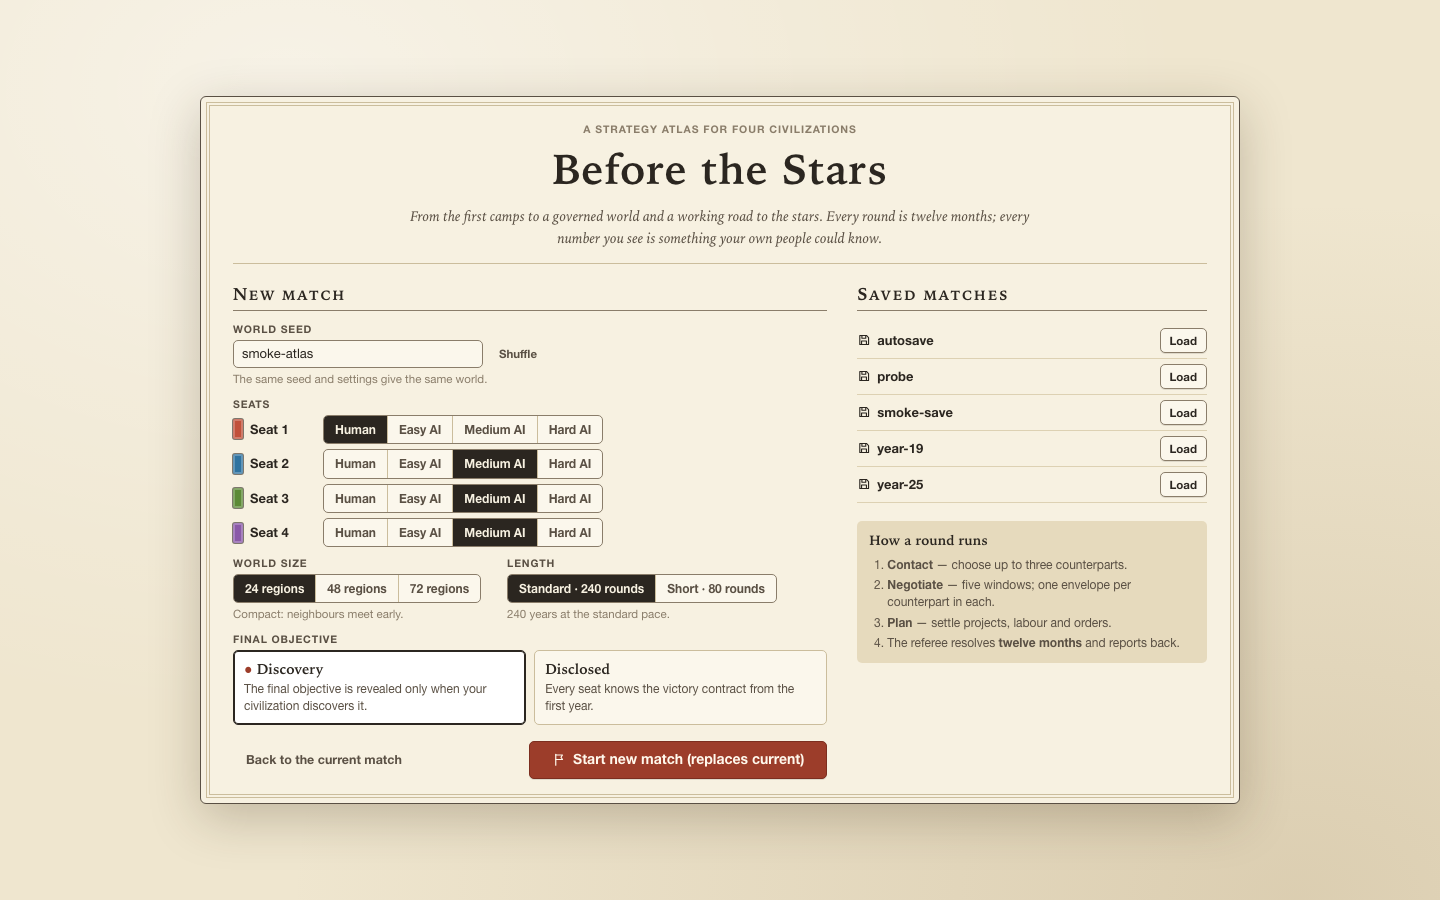
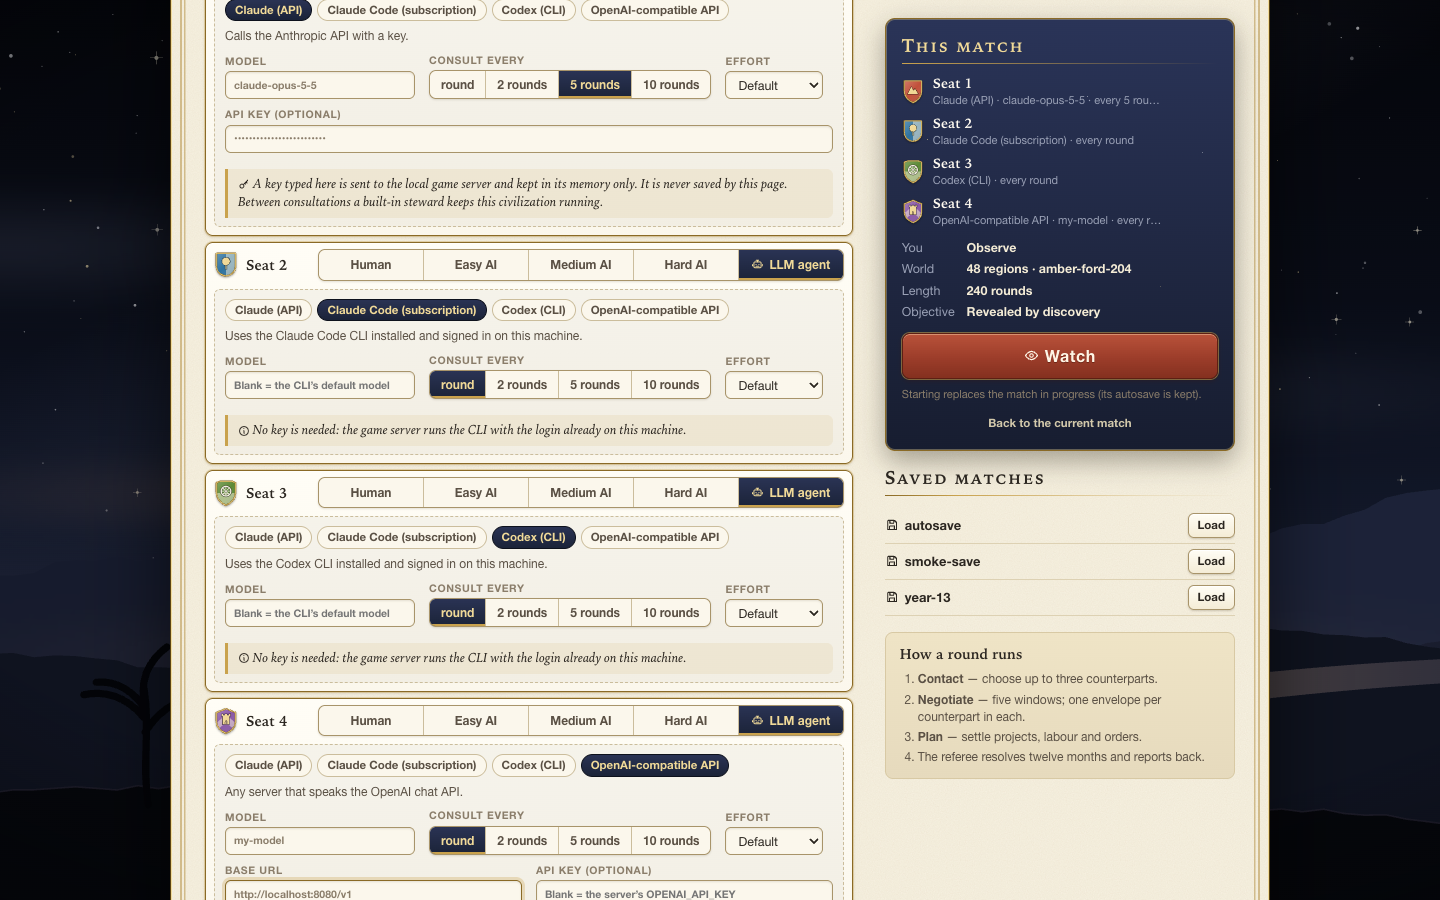
Version 0.3.0: document the desktop game and refresh the screenshots
README and implementation status now describe the 3D map, trees, ledger,
tutorial, observer mode, model seats, languages and the desktop application,
and list what has not been verified: real model seats, the 3D map on a real
graphics card, the Windows build, the release workflow and a native review
of the Chinese text.

diff --git a/README.md b/README.md
@@ -8,14 +8,19 @@ governance of the whole inhabited world **and** a jump-capable service the winne
 build, crew, supply and replace.
 
 This repository contains the v1.0 design documentation (`docs/`) and a playable
-implementation of it: an authoritative Rust rules engine with native non-LLM opponents,
-a local server, and a TypeScript browser client.
+implementation of it: an authoritative Rust rules engine with native non-LLM opponents
+and optional language-model seats, and a desktop application for macOS and Windows
+(the same client also runs in a browser).
 
-![The atlas and round briefing late in a match](docs/screenshots/atlas-and-briefing.png)
+![The world map and round briefing late in a match](docs/screenshots/world.png)
 
-| Chronicle | Known graph | Setup |
+| Title screen | Technology tree | Economy ledger |
 | --- | --- | --- |
-| ![Historic Moments timeline](docs/screenshots/chronicle.png) | ![Known technology graph](docs/screenshots/knowledge-graph.png) | ![New match](docs/screenshots/setup.png) |
+| ![Title screen](docs/screenshots/title.png) | ![Only discovered technologies appear](docs/screenshots/technology-tree.png) | ![Market view of the ledger](docs/screenshots/economy-ledger.png) |
+
+| Observer console | Match setup | 简体中文 |
+| --- | --- | --- |
+| ![Watching four seats play](docs/screenshots/observer.png) | ![Seats: human, built-in or model](docs/screenshots/setup.png) | ![The same view in Simplified Chinese](docs/screenshots/chinese.png) |
 
 ## Play
 
@@ -58,6 +63,28 @@ human seat you are an **observer**: you see the whole world, a scoreboard, every
 civilization's own view and each model's stated reasoning, and you control playback.
 The interface is available in English, 简体中文 and 繁體中文, switchable on the title
 screen. A guided tutorial and an in-game almanac explain the systems.
+
+Language-model seats need something to talk to: an Anthropic or OpenAI-compatible API
+key (typed at setup and held in memory only, or taken from `ANTHROPIC_API_KEY` /
+`OPENAI_API_KEY`), or a logged-in `claude` or `codex` command on this machine. A seat
+whose model cannot be reached reports the error in the observer console and stops
+after three consecutive failures; the match continues without it.
+
+### The screen
+
+- **Map.** A 3D diorama of the known world (terrain, rivers, vegetation, settlements
+  that change with the era, districts, resource badges, borders, armies) with
+  political, terrain, resource and population lenses and a minimap. Land nobody of
+  yours has seen is blank parchment. A flat atlas is one click away and is used
+  automatically where WebGL is unavailable.
+- **Technology and civics trees** (`T`, `C`). They show only what your civilization
+  has discovered: the tree grows as leads are followed, and nothing undiscovered is
+  drawn, named or counted.
+- **Economy ledger** (`L`). Market balance per good, production by facility and
+  region, production chains, workforce and a balance sheet. Figures the referee
+  reported are marked apart from the ledger's own estimates.
+- **Chronicle** (`H`), **almanac** (`?`), and panels for people, knowledge, culture,
+  politics, diplomacy, military and objectives.
 
 ### A round
 
@@ -148,8 +175,10 @@ crates/bts-protocol   Seat-facing contracts: Observation, Action, Receipt (serde
 crates/bts-engine     Authoritative rules: content, world generation, monthly simulation,
                       actions, observation projection, victory, tests
 crates/bts-ai         Native Easy/Medium/Hard opponents; depends only on bts-protocol
-crates/bts-server     `bts` binary: HTTP referee, web host, headless runner, agent CLI
-apps/web              TypeScript + Preact client: atlas map, panels, chronicle
+crates/bts-server     `bts` binary: desktop window, HTTP referee, language-model seats,
+                      headless runner, agent CLI
+apps/web              TypeScript + Preact client: 3D and flat maps, trees, ledger, panels,
+                      tutorial, observer console, translations
 content/              Technology, practice and course graphs extracted from the design atlases
 scripts/              bootstrap, build, run, package, content extraction
 packaging/            app icon, macOS bundle metadata, Windows installer script
@@ -176,7 +205,10 @@ In short:
   limits; three-role warfare, occupation and elimination; G96 ∧ F24 ∧ Trials96 with
   terminal reward; seat-filtered observations with opaque handles; three native AI
   difficulties without information or resource bonuses; saves, replay hashes, HTTP and
-  CLI agent access; a flat illustrated atlas client with a Historic Moments chronicle.
+  CLI agent access; observer mode and language-model seats; a desktop application with
+  a 3D map, discovery-limited technology and civics trees, an economy ledger, a
+  tutorial and almanac, a Historic Moments chronicle, and English, Simplified Chinese
+  and Traditional Chinese throughout.
 - Abstracted: goods are pooled nationally with a per-region carriage loss instead of
   per-shipment logistics; the 34 recipes are represented by about sixty facility types;
   private actors, prices and money are folded into labour, goods and callable-labour
@@ -185,7 +217,12 @@ In short:
 - Verified by tests and scripts, not by a human playthrough to the end: the client has
   been driven by automated browser runs (every panel, hot-seat diplomacy, a late-game
   state against the AI), but wars, religion founding and the jump programme have not
-  been played by hand in the browser.
+  been played by hand.
+- Not yet verified at all: language-model seats against a real model (only a scripted
+  stand-in has been run end to end); the 3D map on a real graphics card (automated
+  runs use software rendering, so frame rate is unmeasured); the Windows build (it
+  compiles, it has never been started); the `release` workflow; the Chinese text by a
+  native-speaking reviewer.
 - Not built: an MCP adapter, multi-match server rooms, generated SDKs, and post-match
   counterfactual replay.
 
@@ -195,8 +232,9 @@ method between year 45 and year 75 and complete the full technology and practice
 graphs between year 160 and year 200. Once the final objective is revealed they fight:
 the leader usually conquers or subordinates one or two rivals and can end holding most
 of the world. No native opponent has yet completed 96 months of global governance
-inside the 240-round horizon, so all-AI matches end unresolved, which the design treats
-as a legitimate outcome. The complete-victory rules themselves are covered by tests.
+inside the 240-round horizon in the evaluation batches, so all-AI matches almost always
+end unresolved, which the design treats as a legitimate outcome. The complete-victory
+rules themselves are covered by tests.
 
 ## Design documentation
 

diff --git a/docs/implementation-status.md b/docs/implementation-status.md
@@ -24,7 +24,11 @@ means the mechanism exists in a simpler form with the same strategic feedback;
 | Information boundary (06, 02) | Implemented | Observations are projected per seat before serialization; unknown nodes do not appear; opaque per-seat handles; uniform errors for unknown and nonexistent references; foreign estimates are coarse and stable within a year |
 | Native AI (33) | Implemented | Deterministic, non-LLM, protocol-only crate. Difficulty changes candidate actions per round (12/24/48), preparation horizon and offer margins; no resource or information bonus. It is a bounded rule-and-scoring policy, not the forward-search planner sketched in the design |
 | Agent access (technical/02, 04) | Partly | HTTP API and CLI with seat tokens. MCP adapter, generated SDKs, idempotency keys and isolated runner images are not built |
-| Interface and chronicle (34) | Partly | Flat illustrated atlas tier, shared information panels, known-graph views, Historic Moments timeline with deterministic templates and Markdown/JSON export. The 3D atlas tier, post-match world timeline and counterfactual replay are not built |
+| Language-model seats | Built, unverified against real models | A seat can be driven by Claude over the Messages API, the local `claude` or `codex` command, or an OpenAI-compatible endpoint. Each consult sends that seat's own observation as a briefing and applies the returned actions; the built-in steward covers what the model leaves out. Three consecutive failures stop the seat. Only a scripted stand-in provider has been run end to end |
+| Observer mode | Implemented | A match with no human seat exposes a referee-wide spectator view, a scoreboard, world events, playback control (step, play, run ten), each seat's own view read-only and each model's notes. Refused when a human seat exists or seat tokens are required |
+| Interface and chronicle (34) | Mostly | 3D diorama map with four lenses and a flat atlas fallback; technology and civics trees limited to discovered nodes; economy ledger (market, production, chains, workforce, balance sheet); title screen, setup, tutorial (24 steps) and almanac (21 topics); Historic Moments timeline with Markdown/JSON export. Post-match world timeline and counterfactual replay are not built. Seasonal map grading and further lenses are not built |
+| Languages | Implemented | English, Simplified Chinese, Traditional Chinese (derived from Simplified with a regional phrase table and overrides). Server-generated text is translated in the client by template; an automated harvest of several full matches found no untranslated string, but 41 rare event templates were never seen in context and no native-speaking reviewer has read it. Generated region names stay in Latin script |
+| Desktop application | Built; Windows unverified | `bts` opens the game in a native window (system WebView) with the referee in-process, full screen, per-user saves and a title screen. `scripts/package.sh` produces a universal macOS disk image and a Windows x64 zip; a GitHub workflow builds both natively plus a Windows installer. The macOS app has been launched here; the Windows executable and the workflow have never been run. Nothing is code-signed |
 | Multicore (technical/03) | Partly | Independent matches run in parallel across cores; a single match is fast enough to settle a full 240-round game in about two seconds single-threaded, so in-match staged parallelism is not implemented |
 | Persistence | Implemented | Full checkpoint saves including controller memory; state hashes; `bts verify` checks repeatability and checkpoint recovery |
 
@@ -34,6 +38,10 @@ means the mechanism exists in a simpler form with the same strategic feedback;
 - Late-game supply chains (fuel, spares, compute) are fragile for the native opponents.
 - In all-AI matches the leader conquers or subordinates rivals after the objective is
   revealed, but no seat has completed global integration within the horizon.
-- The browser client was verified by automated runs; religion founding, battles and the
+- The client was verified by automated runs; religion founding, battles and the
   jump programme screens were built from the protocol types and have not been exercised
   by hand.
+- The 3D map has only been rendered with software WebGL in automated runs. Its frame
+  rate on real hardware, and on integrated graphics in particular, is unmeasured.
+- The economy ledger's own estimates (marked as such in the interface) agreed with the
+  referee's totals to within about 25% in 41 of 57 comparisons; the rest diverge more.
